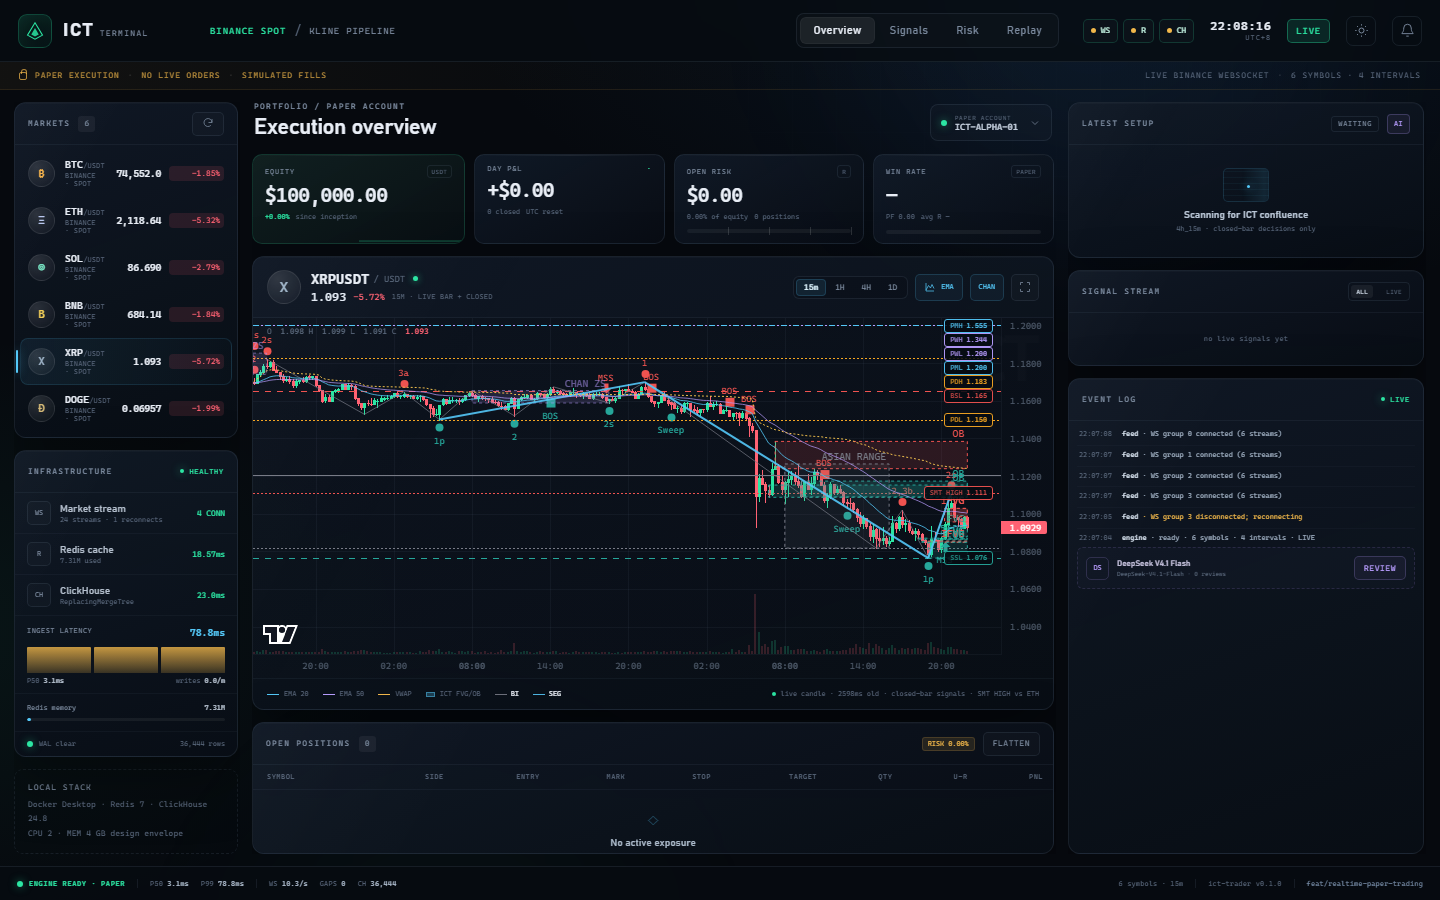
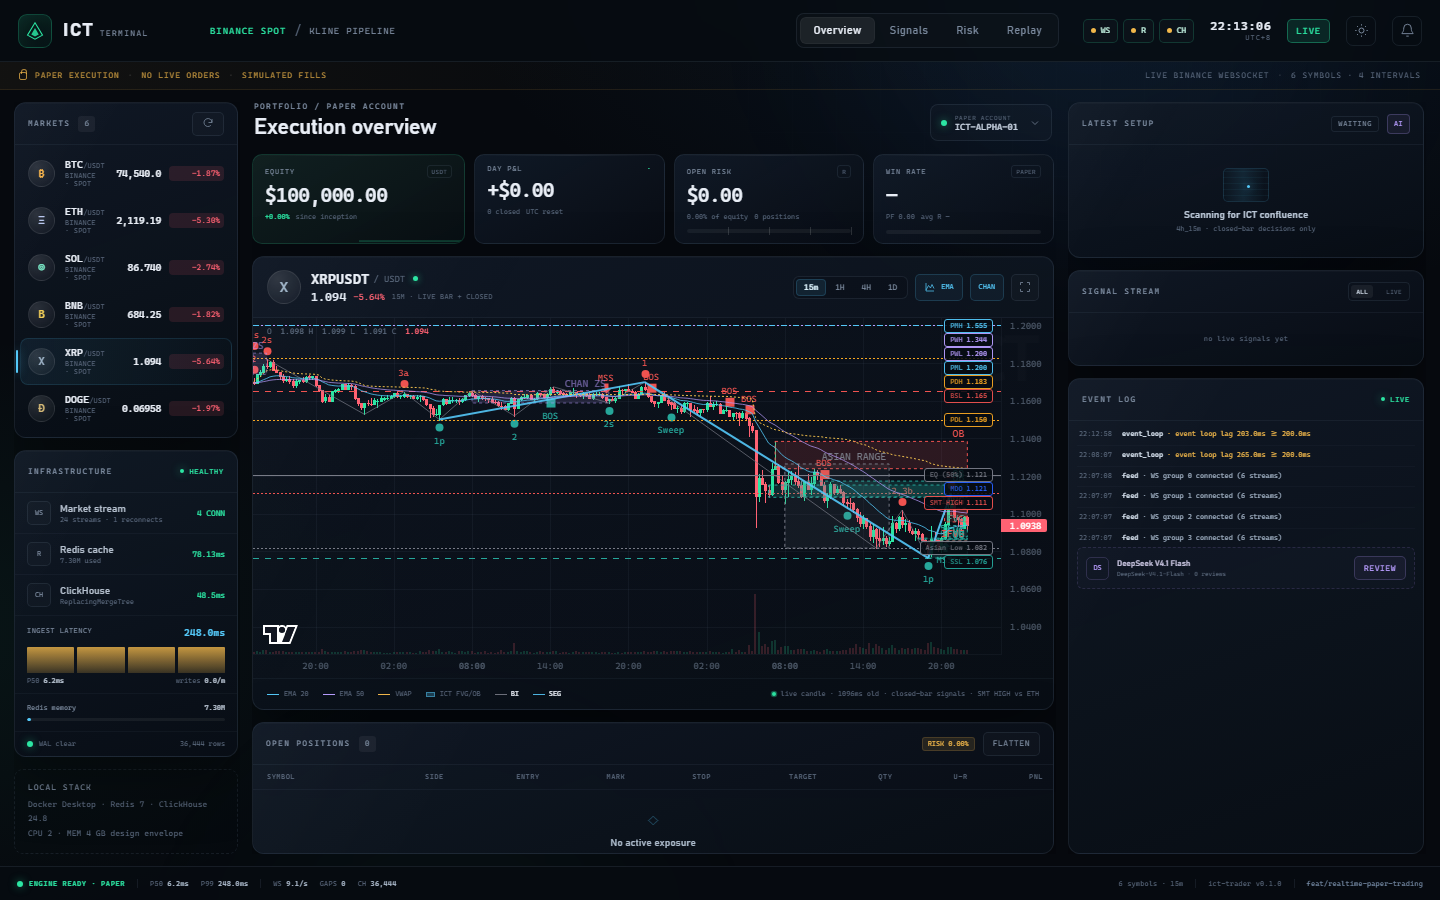
fix: collision-layout all price labels

diff --git a/src/ict_trader/realtime/static/app.js b/src/ict_trader/realtime/static/app.js
@@ -1271,7 +1271,7 @@
       try { return lwc.chart.priceScale("right").width(); }
       catch (_) { return 64; }
     })();
-    const rows = (lines || []).filter(l => l.axisLabel !== false).map((l, i) => ({
+    const rows = (lines || []).map((l, i) => ({
       id: `${l.title || l.label || "level"}-${i}`,
       y: lwc.candles.priceToCoordinate(Number(l.price)),
       title: l.title || l.label || "LEVEL",
